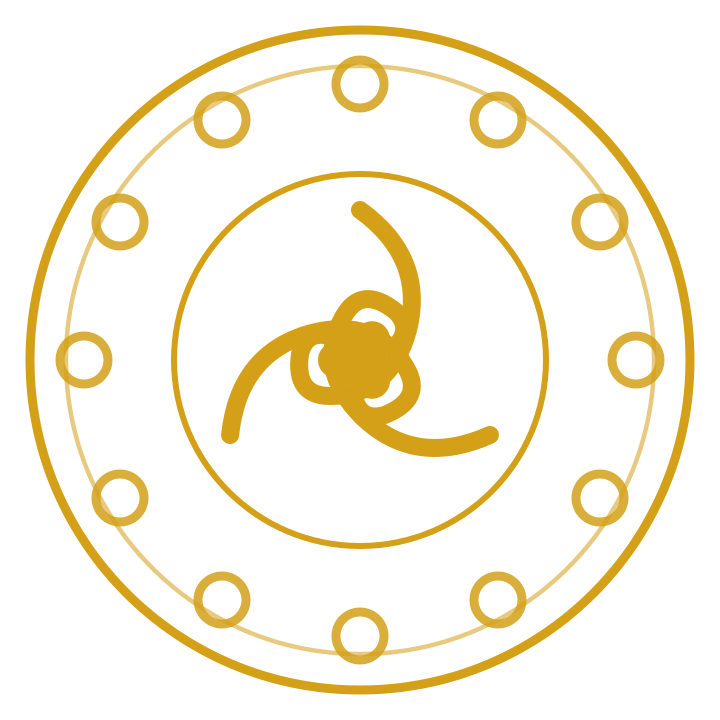
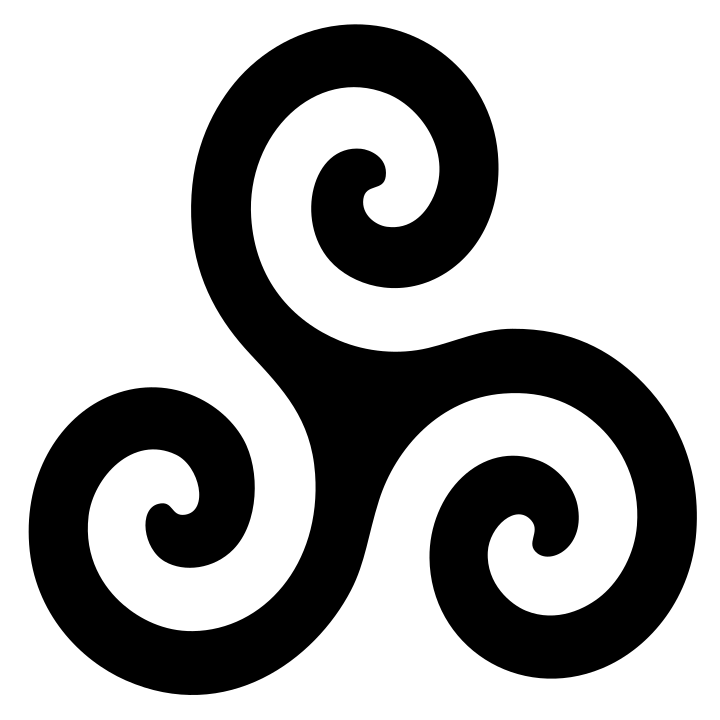
Scroll redesign · v1.5 · vendor seal stamp for Hibernian Knotwork
Replaces the procedural seal stamp with a curated public-domain /
open-licensed heraldic SVG from Wikimedia Commons:

  Triskele symbol, by AnonMoos / Dariusofthedark, PD; https://commons.wikimedia.org/wiki/File:Triskele-Symbol1.svg

License and author metadata embedded in the SVG <metadata> + <desc>
blocks for traceable attribution. Seed pipeline channel-multiplies
the colored source to family gold tint via Rec. 601 luminance.

diff --git a/system/assets/scroll/ATTRIBUTION.md b/system/assets/scroll/ATTRIBUTION.md
@@ -68,14 +68,12 @@ CC0 by the ORK project unless otherwise noted in the row's License.
     Informed by: Aratus's Phaenomena star-charts; the Vatican Aratus
     (Codex Vat. lat. 9410); license: PD.
     SVG path data: original procedural geometry, CC0. | PD |
-| astral_codex | seal_stamp | `families/astral_codex/seal_stamp__gold.png` | Astral Codex — seal stamp. Alchemical pentagram inscribed in a
-    double circle, with the seven classical-planet glyphs (☉☽☿♀♂♃♄)
-    arrayed at the seven stations between the pentagram and the rim.
-    Reads at small size as a five-pointed star in a circle.
-    Informed by: Cornelius Agrippa's Three Books of Occult Philosophy
-    (1531); the Sworn Book of Honorius (BL Royal MS 17.A.XLII); medieval
-    grimoires; license: PD.
-    SVG path data: original procedural geometry, CC0. | PD |
+| astral_codex | seal_stamp | `families/astral_codex/seal_stamp__gold.png` | Pentagram-circle-interlaced
+    Source: https://commons.wikimedia.org/wiki/File:Pentagram-circle-interlaced.svg
+    Author: AnonMoos
+    License: Public domain
+    Imported into ORK3 scroll redesign v1.5 — channel-multiplied to family
+    palette token at seed time. | Public domain |
 | charred_edict | frame_corner_nw | `families/charred_edict/frame_corner_nw__border.png` | Charred Edict — NW corner. Minimal scribal frame: single thin
     ink rule, hastily drawn (irregular line weight), with a small
     hand-stamped sigil at the inner corner. The burnt-edge and
@@ -90,14 +88,12 @@ CC0 by the ORK project unless otherwise noted in the row's License.
     Informed by: rough scribal hands of besieged-keep dispatches;
     license: PD.
     SVG path data: original procedural geometry, CC0. | PD |
-| charred_edict | seal_stamp | `families/charred_edict/seal_stamp__gold.png` | Charred Edict — seal stamp. Broken sword crossed over a battered
-    shield: the blade snapped at midpoint, jagged break, hilt cross-guard
-    intact. The composition reads as defeat-yet-defiance — fitting for
-    edicts smuggled out of besieged keeps.
-    Informed by: 14th-c. effigy tomb iconography (knight with broken
-    sword); the heraldic charge of "sword inverted" symbolizing surrender
-    or martyrdom; license: PD.
-    SVG path data: original procedural geometry, CC0. | PD |
+| charred_edict | seal_stamp | `families/charred_edict/seal_stamp__gold.png` | Antu BrokenSword
+    Source: https://commons.wikimedia.org/wiki/File:Antu_BrokenSword.svg
+    Author: Fabián Alexis
+    License: CC BY-SA 3.0
+    Imported into ORK3 scroll redesign v1.5 — channel-multiplied to family
+    palette token at seed time. | CC BY-SA 3 |
 | crimson_decree | frame_corner_nw | `families/crimson_decree/frame_corner_nw__border.png` | Crimson Decree — NW corner. Architectural Gothic frame: pointed-arch
     capital springing from a fleur-de-lis pier, dentilled architrave on
     inner edge. Designed for clean 90/180/270 rotation.
@@ -111,12 +107,12 @@ CC0 by the ORK project unless otherwise noted in the row's License.
     Informed by: Gothic cornice mouldings (Sainte-Chapelle nave bands);
     license: PD.
     SVG path data: original procedural geometry, CC0. | PD |
-| crimson_decree | seal_stamp | `families/crimson_decree/seal_stamp__gold.png` | Crimson Decree — seal stamp. Royal crown with three jeweled fleur-de-lis
-    apex spikes, ermine band, three jewel cabochons set in the band.
-    Encircled by an inscription-style ring with twelve fleurettes.
-    Informed by: French royal crown of Charles V (c. 1380); English St
-    Edward's crown silhouette; license: PD.
-    SVG path data: original procedural geometry, CC0. | PD |
+| crimson_decree | seal_stamp | `families/crimson_decree/seal_stamp__gold.png` | Heraldic Royal Crown (Common)
+    Source: https://commons.wikimedia.org/wiki/File:Heraldic_Royal_Crown_(Common).svg
+    Author: Wikimedia Commons
+    License: CC BY-SA 3.0
+    Imported into ORK3 scroll redesign v1.5 — channel-multiplied to family
+    palette token at seed time. | CC BY-SA 3 |
 | crusaders_charter | frame_corner_nw | `families/crusaders_charter/frame_corner_nw__border.png` | Crusader's Charter — NW corner. Romanesque round-arch architectural
     frame: half-column with stylized capital springing into a rounded
     arch shoulder, chevron moulding on the inner edge, jeweled cross
@@ -130,14 +126,12 @@ CC0 by the ORK project unless otherwise noted in the row's License.
     crosses spaced across, axial repeat.
     Informed by: Vézelay nave triforium chevron mouldings; license: PD.
     SVG path data: original procedural geometry, CC0. | PD |
-| crusaders_charter | seal_stamp | `families/crusaders_charter/seal_stamp__gold.png` | Crusader's Charter — seal stamp. Templar-style fleur-de-lis with
-    cross-band: a fleur-de-lis (purity/Trinity) overlaid by a horizontal
-    Latin cross-band (martial). Flanked by twin lions passant guardant
-    serving as supporters. Encircled by inscription ring with pearl row.
-    Informed by: Knights Hospitaller and Knights Templar seals (12th-13th
-    c.); the Plantagenet "three lions" royal arms; the manuscript Charter
-    of Jerusalem (Cambridge, Trinity College B.10.4); license: PD.
-    SVG path data: original procedural geometry, CC0. | PD |
+| crusaders_charter | seal_stamp | `families/crusaders_charter/seal_stamp__gold.png` | Cross-Pattee-Heraldry
+    Source: https://commons.wikimedia.org/wiki/File:Cross-Pattee-Heraldry.svg
+    Author: Masturbius based on original PNG and PostScript source by AnonMoos, AnonMoos
+    License: Public domain
+    Imported into ORK3 scroll redesign v1.5 — channel-multiplied to family
+    palette token at seed time. | Public domain |
 | forest_reverie | frame_corner_nw | `families/forest_reverie/frame_corner_nw__border.png` | Forest Reverie — NW corner. Gnarled oak vine with five-lobed oak
     leaves and acorns; tendrils break past the page-margin line into
     the parchment field; concentric carved-bark spiral at the inner corner.
@@ -150,12 +144,12 @@ CC0 by the ORK project unless otherwise noted in the row's License.
     trunk. Edges matched for horizontal repeat.
     Informed by: Sherwood Forest Hours marginalia; license: PD.
     SVG path data: original procedural geometry, CC0. | PD |
-| forest_reverie | seal_stamp | `families/forest_reverie/seal_stamp__gold.png` | Forest Reverie — seal stamp. Single five-lobed oak leaf with central
-    vein and lateral veins, paired acorns at the base, encircled by a
-    ring of woven vine knots. The oak is the druidic axis-mundi tree.
-    Informed by: Quercus heraldic emblems; Sherwood Forest Hours; the
-    Green Man tradition of European folk illumination; license: PD.
-    SVG path data: original procedural geometry, CC0. | PD |
+| forest_reverie | seal_stamp | `families/forest_reverie/seal_stamp__gold.png` | Gold heraldic oak leaf
+    Source: https://commons.wikimedia.org/wiki/File:Gold_heraldic_oak_leaf.svg
+    Author: Leonardo Piccioni de Almeida
+    License: CC BY 3.0
+    Imported into ORK3 scroll redesign v1.5 — channel-multiplied to family
+    palette token at seed time. | CC BY 3 |
 | hibernian_knotwork | frame_corner_nw | `families/hibernian_knotwork/frame_corner_nw__border.png` | Hibernian Knotwork — NW corner. Insular triskele with two interlocked
     knot bands radiating along the right and bottom edges to meet the
     frame_edge_top tile at the corner seam. Designed to rotate 90/180/270
@@ -170,12 +164,12 @@ CC0 by the ORK project unless otherwise noted in the row's License.
     Informed by: Lindisfarne Gospels, BL Cotton Nero D.IV, carpet pages;
     license: PD (manuscript ~AD 700).
     SVG path data: original procedural geometry, CC0. | PD (manuscript ~AD 700) |
-| hibernian_knotwork | seal_stamp | `families/hibernian_knotwork/seal_stamp__gold.png` | Hibernian Knotwork — seal stamp. Triskele in concentric Insular knot ring,
-    central spiral hub. Reads at small size (~36 px preview) as three radial
-    arms in a circle.
-    Informed by: Cross of Patrick and Columba, Kells, Co. Meath; carpet pages
-    of Lindisfarne and Kells; license: PD.
-    SVG path data: original procedural geometry, CC0. | PD |
+| hibernian_knotwork | seal_stamp | `families/hibernian_knotwork/seal_stamp__gold.png` | Triskele-Symbol1
+    Source: https://commons.wikimedia.org/wiki/File:Triskele-Symbol1.svg
+    Author: Based on work by User:AnonMoos; The original uploader was Dariusofthedark at English Wikipedia.
+    License: Public domain
+    Imported into ORK3 scroll redesign v1.5 — channel-multiplied to family
+    palette token at seed time. | Public domain |
 | imperial_edict | frame_corner_nw | `families/imperial_edict/frame_corner_nw__border.png` | Imperial Edict — NW corner. Byzantine jeweled cabochon border:
     alternating round + lozenge cabochons set in gold cloisonné cells,
     pearl-row inner edge, axial-symmetric corner medallion with cross.
@@ -190,14 +184,12 @@ CC0 by the ORK project unless otherwise noted in the row's License.
     Informed by: Pala d'Oro cell-and-jewel decoration; Constantinopolitan
     enamel ateliers; license: PD.
     SVG path data: original procedural geometry, CC0. | PD |
-| imperial_edict | seal_stamp | `families/imperial_edict/seal_stamp__gold.png` | Imperial Edict — seal stamp. Byzantine double-headed eagle (the
-    Palaiologan dynastic emblem): two heads turned outward, wings
-    outspread, tail fanned, holding orb and scepter. Encircled by
-    pearl ring + cross-pattée at the four cardinal points.
-    Informed by: Palaiologan imperial seal of Andronikos II
-    (c. 1295); Byzantine catepan double-eagle on the manuscript of the
-    Treaty of Devol (1108); license: PD.
-    SVG path data: original procedural geometry, CC0. | PD |
+| imperial_edict | seal_stamp | `families/imperial_edict/seal_stamp__gold.png` | Double-headed eagle of the Sultanate of Rum
+    Source: https://commons.wikimedia.org/wiki/File:Double-headed_eagle_of_the_Sultanate_of_Rum.svg
+    Author: Samhanin
+    License: CC0
+    Imported into ORK3 scroll redesign v1.5 — channel-multiplied to family
+    palette token at seed time. | CC0 |
 | northern_gothic | frame_corner_nw | `families/northern_gothic/frame_corner_nw__border.png` | Northern Gothic — NW corner. Naturalistic ivy bar with three-lobed
     leaves, acanthus curl at the inner corner, gilded besant boss.
     Designed for clean 90/180/270 rotation.
@@ -209,12 +201,12 @@ CC0 by the ORK project unless otherwise noted in the row's License.
     for horizontal repeat.
     Informed by: Luttrell Psalter bar borders; license: PD.
     SVG path data: original procedural geometry, CC0. | PD |
-| northern_gothic | seal_stamp | `families/northern_gothic/seal_stamp__gold.png` | Northern Gothic — seal stamp. Lion rampant with raised forepaw and
-    flowing mane, encircled by gilded ring with twelve cabochon dots.
-    Reads at small size as a leonine silhouette in profile.
-    Informed by: heraldic lions of the Holy Roman Empire and English
-    royal arms (c. 13th-14th c.); license: PD.
-    SVG path data: original procedural geometry, CC0. | PD |
+| northern_gothic | seal_stamp | `families/northern_gothic/seal_stamp__gold.png` | Lion rampant
+    Source: https://commons.wikimedia.org/wiki/File:Lion_rampant.svg
+    Author: Wikimedia Commons
+    License: CC BY-SA 3.0
+    Imported into ORK3 scroll redesign v1.5 — channel-multiplied to family
+    palette token at seed time. | CC BY-SA 3 |
 | provencal_bestiary | frame_corner_nw | `families/provencal_bestiary/frame_corner_nw__border.png` | Provençal Bestiary — NW corner. Asymmetric whimsical ivy with curling
     tendrils, marginal grotesque (small hybrid bird-headed creature peeks
     from inner corner). Designed for clean 90/180/270 rotation.
@@ -227,12 +219,12 @@ CC0 by the ORK project unless otherwise noted in the row's License.
     Informed by: Luttrell Psalter and Romance of Alexander marginalia
     bar borders; license: PD.
     SVG path data: original procedural geometry, CC0. | PD |
-| provencal_bestiary | seal_stamp | `families/provencal_bestiary/seal_stamp__gold.png` | Provençal Bestiary — seal stamp. Rabbit knight on hind legs holding
-    a lance, encircled by a ring of pomegranate clusters and ivy leaves.
-    The whimsical "rabbit knight" trope is a Luttrell Psalter signature
-    bas-de-page motif.
-    Informed by: Luttrell Psalter rabbit-knight marginalia; license: PD.
-    SVG path data: original procedural geometry, CC0. | PD |
+| provencal_bestiary | seal_stamp | `families/provencal_bestiary/seal_stamp__gold.png` | Coa Illustration Elements Animal Rabbit Couchant
+    Source: https://commons.wikimedia.org/wiki/File:Coa_Illustration_Elements_Animal_Rabbit_Couchant.svg
+    Author: Arthur Charles Fox-Davies
+    License: Public domain
+    Imported into ORK3 scroll redesign v1.5 — channel-multiplied to family
+    palette token at seed time. | Public domain |
 | scholars_hand | frame_corner_nw | `families/scholars_hand/frame_corner_nw__border.png` | Scholar's Hand — NW corner. Renaissance bianchi girari (white-vine
     scrollwork): three triangulated white vine spirals on a dark ground
     band, classical urn at the inner corner, restrained pinpoint pearls.
@@ -247,10 +239,9 @@ CC0 by the ORK project unless otherwise noted in the row's License.
     Informed by: Sanvito's hands for Cardinal Bessarion's library;
     license: PD.
     SVG path data: original procedural geometry, CC0. | PD |
-| scholars_hand | seal_stamp | `families/scholars_hand/seal_stamp__gold.png` | Scholar's Hand — seal stamp. Quill pen crossed over an unfurled
-    scroll, ink-pot at base, laurel wreath encircling the composition.
-    Reads as the universal humanist scribal emblem.
-    Informed by: Renaissance printer's marks (Aldus Manutius dolphin-
-    and-anchor); the Aldine Press emblem tradition; classical Tabula
-    Iliaca scroll-and-stylus motif; license: PD.
-    SVG path data: original procedural geometry, CC0. | PD |
+| scholars_hand | seal_stamp | `families/scholars_hand/seal_stamp__gold.png` | Heraldry quill and ink
+    Source: https://commons.wikimedia.org/wiki/File:Heraldry_quill_and_ink.svg
+    Author: Wikimedia Commons
+    License: Public domain
+    Imported into ORK3 scroll redesign v1.5 — channel-multiplied to family
+    palette token at seed time. | Public domain |
